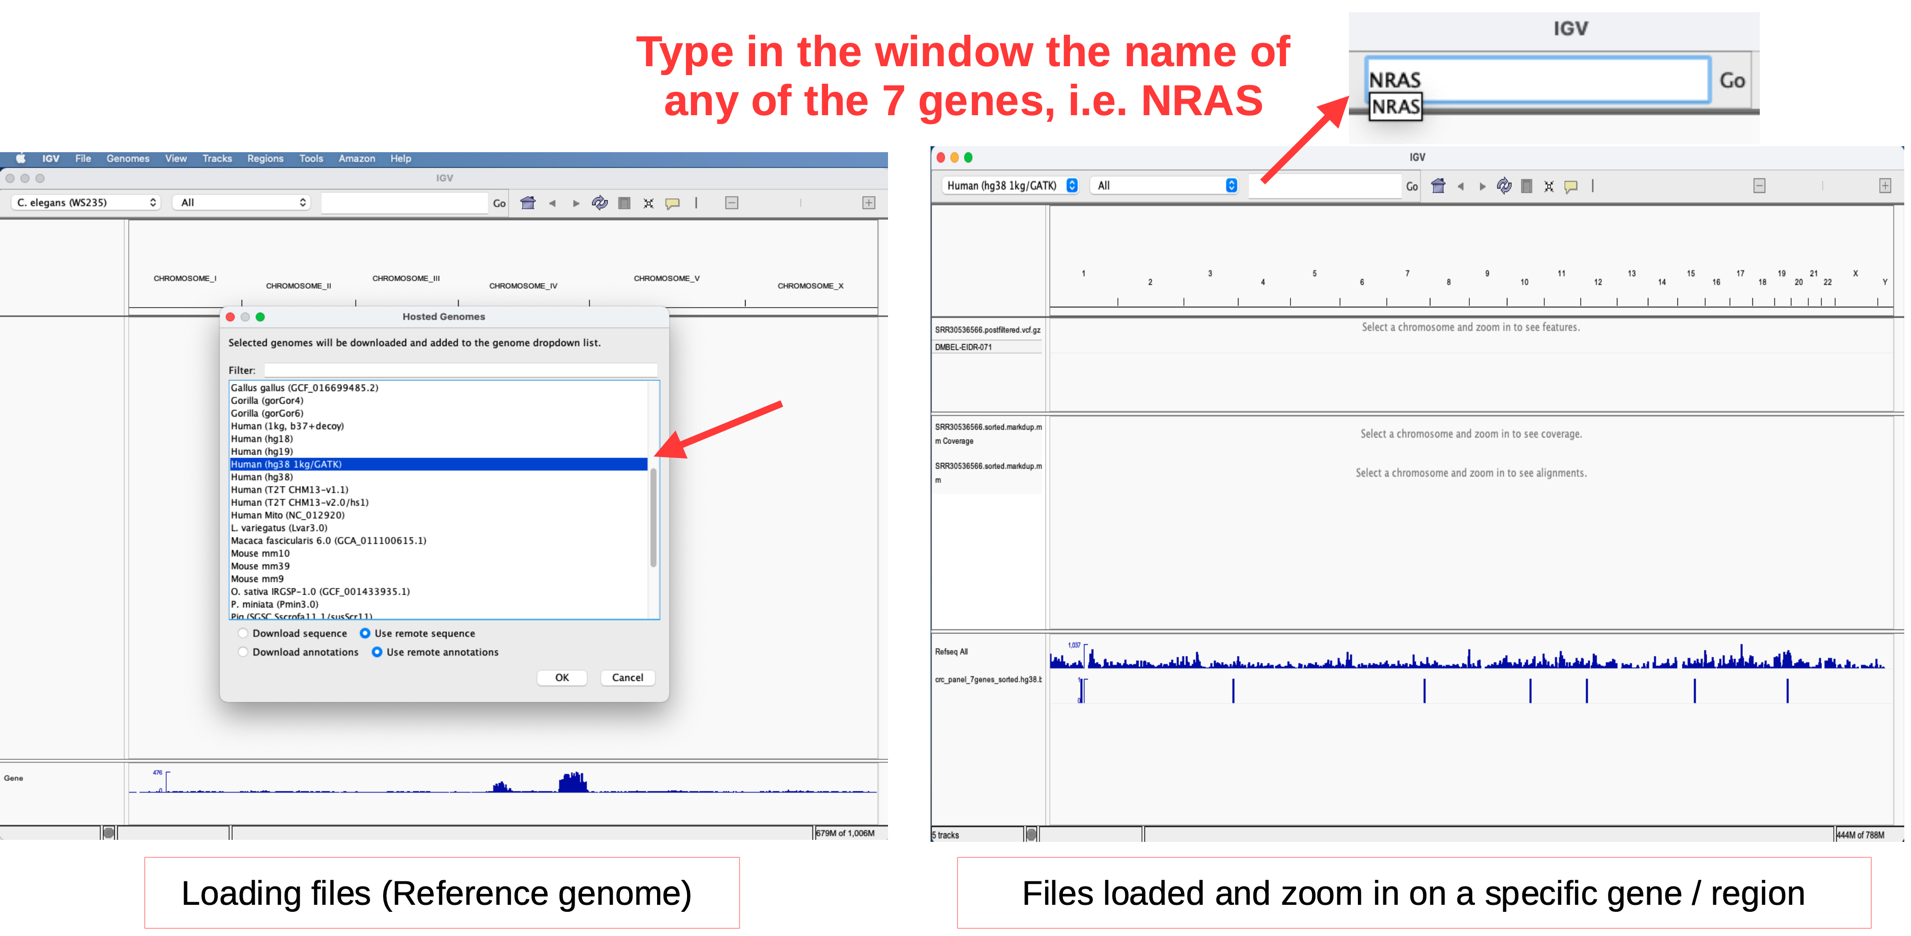
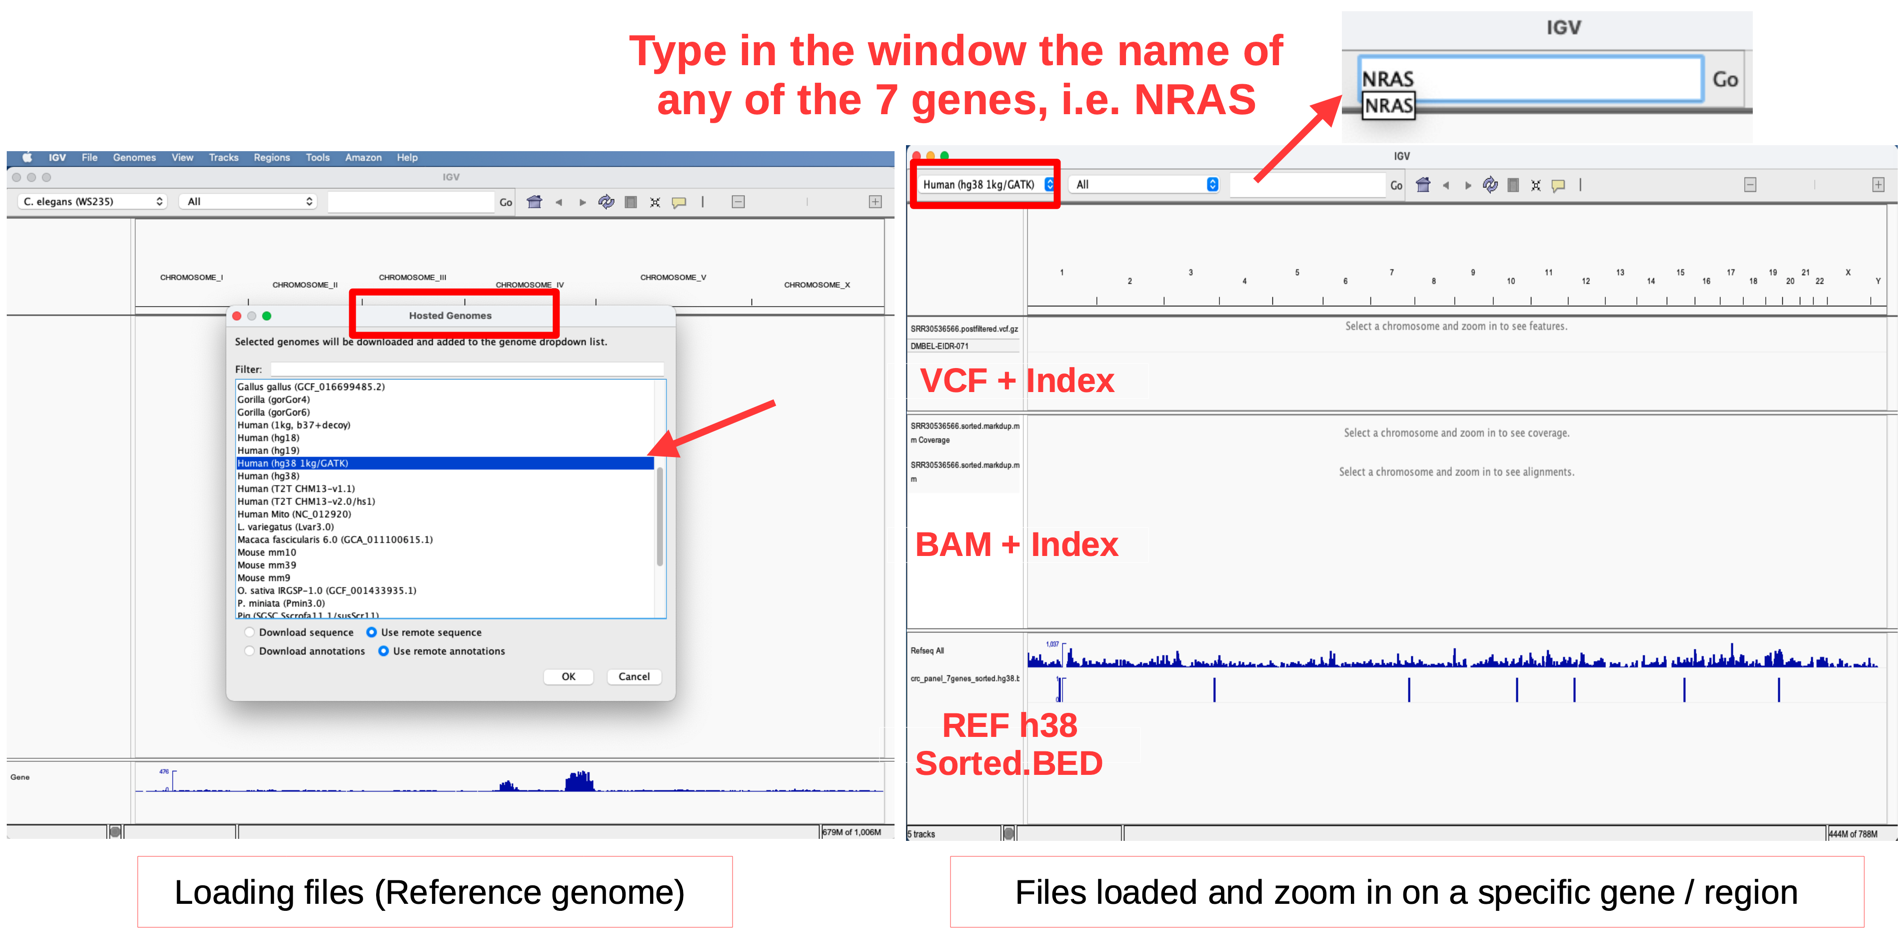
2Feb_renaming6

diff --git a/README_igv_Part3-3.md b/README_igv_Part3-3.md
@@ -61,13 +61,13 @@ Ideally, in order to have a comprehensive view of the analysed DNA-NGS dataset, 
 
 | Format File | File from `SRR30536566` | Purpose in IGV | Why It's Needed |
 |-------------|-------------------------|----------------|-----------------|
-| **Reference FASTA** (optional but recommended) | `Homo_sapiens_assembly38.fasta` | Provides the **reference genome sequence** against which the reads were aligned | IGV must use the same reference genome build (and contig naming) that was used for alignment. Loading your exact FASTA ensures coordinate compatibility and correct reference base display.<br>⚠ **Problem**: It's not easy to load |
+| **Reference FASTA** (optional but recommended) | `Homo_sapiens_assembly38.fasta` | Provides the **reference genome sequence** against which the reads were aligned | IGV must use the same reference genome build (and contig naming) that was used for alignment. Loading your exact FASTA ensures coordinate compatibility and correct reference base display.<br>⚠ **Problem**: It's not easy to load into IGV. |
 | **BAM** | `SRR30536566.sorted.markdup.md.bam` | Shows **aligned sequencing reads** mapped to the reference genome with coverage depth and read details | Core visualization file - shows actual read alignments, base quality scores, chromosome coordinates and how reads support variant calls. BAM + Index together are the minimum files for IGV visualization. |
-| **BAM Index** | `SRR30536566.sorted.markdup.md.bam.bai` | **Index** for the BAM file allowing fast navigation/access to any genomic position | Without this index, IGV would be extremely slow or unable to load large BAM files |
-| **VCF** (compressed) | `SRR30536566.postfiltered.vcf.gz` | Displays **variant calls** as colored bars showing variant positions, alleles, and quality metrics | Allows visual confirmation of variant calls against aligned reads |
-| **VCF Index** | `SRR30536566.postfiltered.vcf.gz.tbi` | **Index** for the VCF file enabling quick navigation to variant positions | Essential for random access in compressed VCF files |
+| **BAM Index** | `SRR30536566.sorted.markdup.md.bam.bai` | **Index** for the BAM file allowing fast navigation/access to any genomic position | Without this index, IGV would be extremely slow or unable to load large BAM files. |
+| **VCF** (compressed) | `SRR30536566.postfiltered.vcf.gz` | Displays **variant calls** as colored bars showing variant positions, alleles, and quality metrics | Allows visual confirmation of variant calls against aligned reads. |
+| **VCF Index** | `SRR30536566.postfiltered.vcf.gz.tbi` | **Index** for the VCF file enabling quick navigation to variant positions | Essential for random access in compressed VCF files. |
 | **GTF** (compressed) | `gencode.v38.annotation.gtf.gz` | Shows **gene annotations** - gene boundaries (start/stop genomic positions), codons & exons, gene strand (pos/neg), transcripts as separate tracks.<br> Some **.gtf** files provide information about the name and location of the specific primers used for targeted amplicon generation | Provides biological context (is variant in a gene? in an exon? which transcript?) |
-| **BED**<br>(browser extensible data) | `crc_panel_7genes_sorted.hg38.bed` | Highlights **targeted sequencing regions** as a colored track | Shows which genomic regions were actually sequenced in your panel.<br>Also shows start/stop regions of targeted genes. Usually, this file is provided by the producer of the gene panel to show the gene regions targeted by the primers they created |
+| **BED**<br>(browser extensible data) | `crc_panel_7genes_sorted.hg38.bed` | Highlights **targeted sequencing regions** as a colored track | Shows which genomic regions were actually sequenced in your panel.<br>Also shows start/stop regions of targeted genes. Usually, this file is provided by the producer of the gene panel to show the gene regions targeted by the primers they created. |
 
 
 **Table 1B**: Germline Database File (**Optional**) to upload into IGV.
@@ -76,7 +76,7 @@ Ideally, in order to have a comprehensive view of the analysed DNA-NGS dataset, 
 |-------------|---------------------|----------------|-----------------|
 | **VCF** (germline database) | `af-only-gnomad.hg38.vcf.gz`<br>(from `/somatic_resources/`) | Shows **population allele frequencies** at known germline variant positions | **⚠ WARNING**: This shows common germline variants in the general population, NOT a patient-matched normal. It helps identify variants that are likely germline (common in population) vs. potentially somatic (rare). |
 
->**Note**: VCF, GTF and BED files are \ul{supporting files}, that means, they will help to understand better the visualization.
+>**Note**: VCF, GTF and BED files are **supporting files**, that means, they will help to understand better the visualization.
 
 ### Using Population Databases as Reference
 
@@ -103,7 +103,7 @@ When opening IGV, the window will be almost completely blank as shown in **Figur
 
 1. Click on **IGV** icon
 2. Load "**hg38**" huma reference genome
-  - **Genomes** > **Download Hosted Genome** → Pop-up window called **Hosted Genomes**
+  - **Genomes** > **Download Hosted Genome** → Pop-up window called **<span style="color:red">Hosted Genomes</span>**
   - Type "Human"
   - Select: **Human (hg38 1kg/GATK)**
 3. Load **BAM**, **BED** and **VCF** files
@@ -111,6 +111,7 @@ When opening IGV, the window will be almost completely blank as shown in **Figur
 
 After loading reference genome, BAM files and supporting files, type in the little window one of the seven genes from dataset `SRR30536566`. The IGV will look more or less like in **Figure 1 (right)**. 
 
+**Figure 1**: First glance at IGV (left panel and after loading IGV with the files)
 
 ![Figure 1: First glance at IGV (left panel and after loading IGV with the files)](images/IGV_starting_1.png)
 
